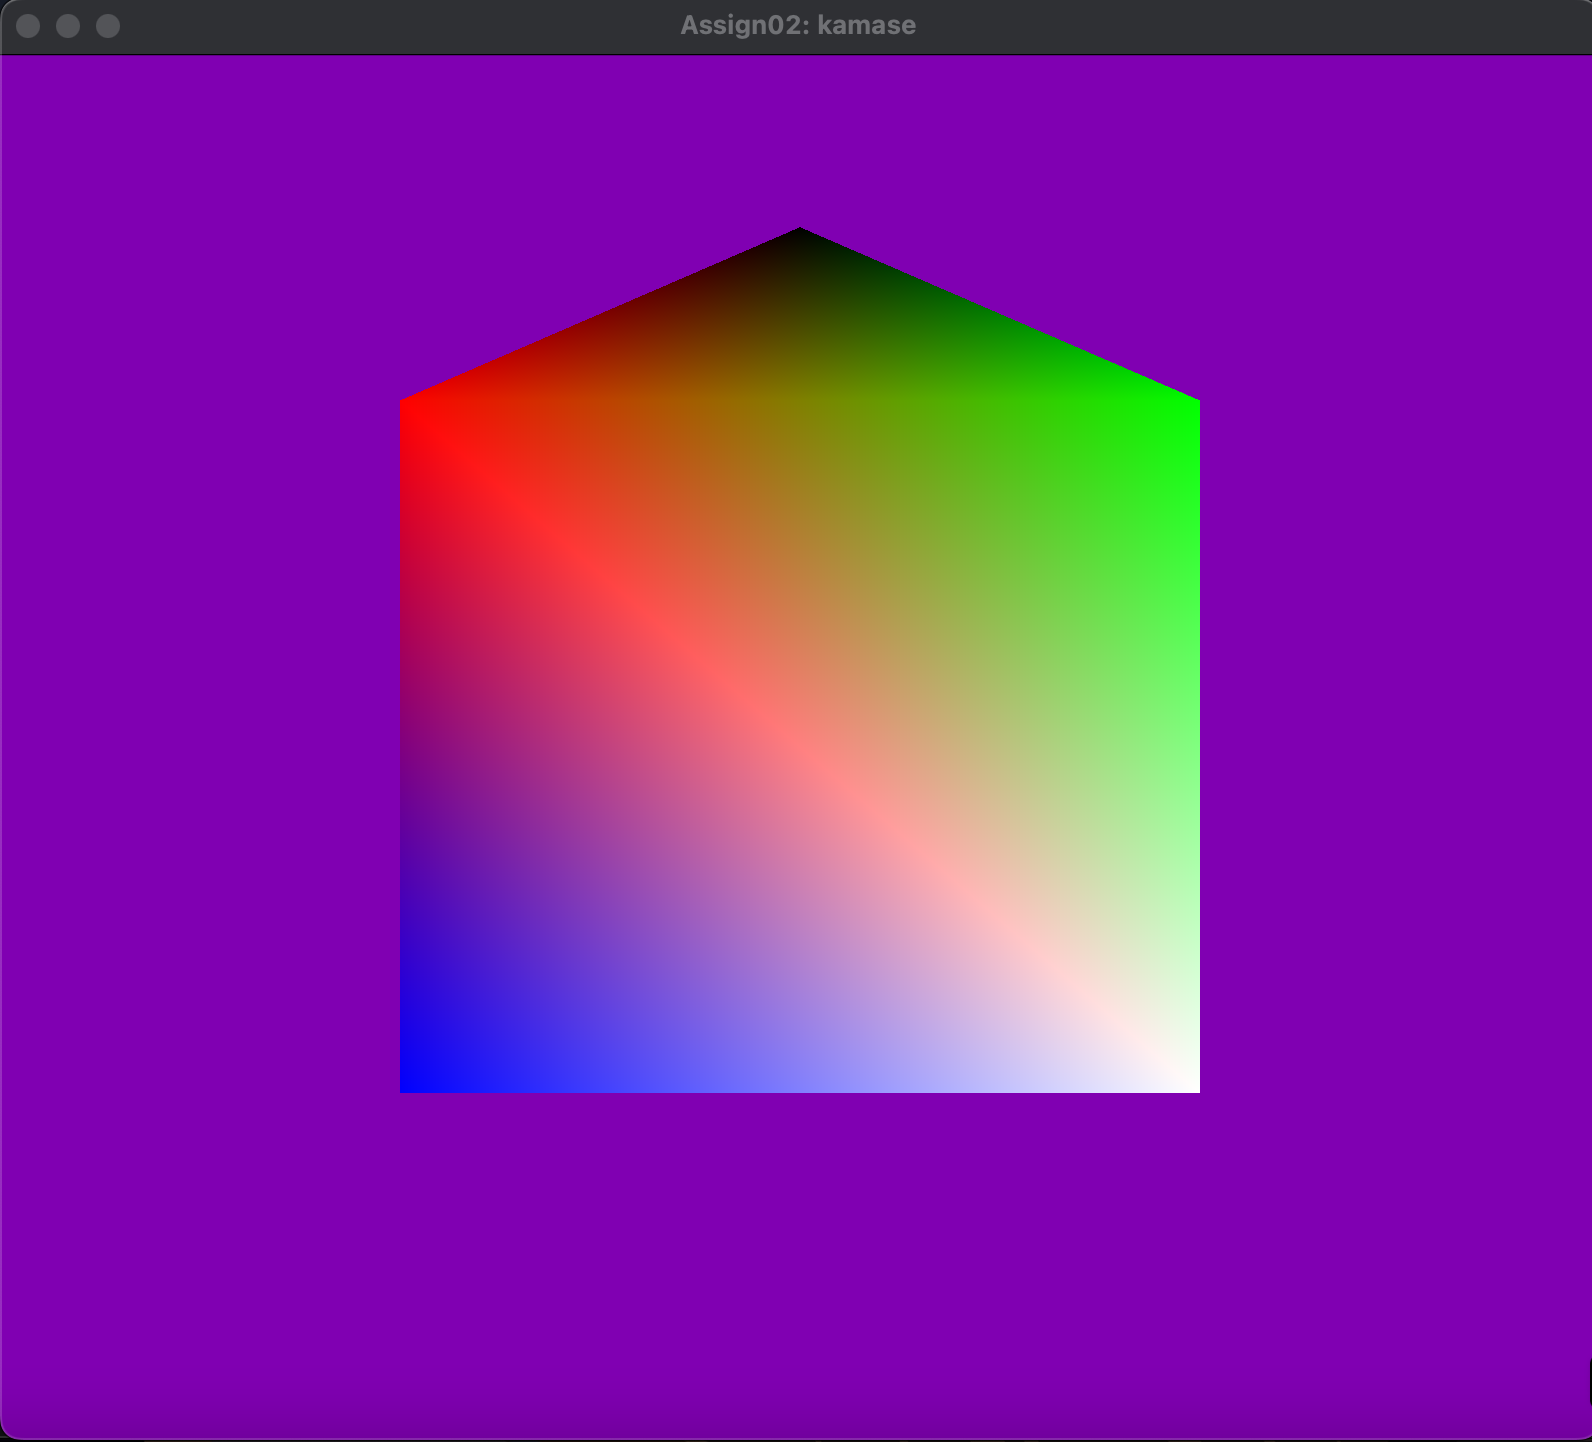
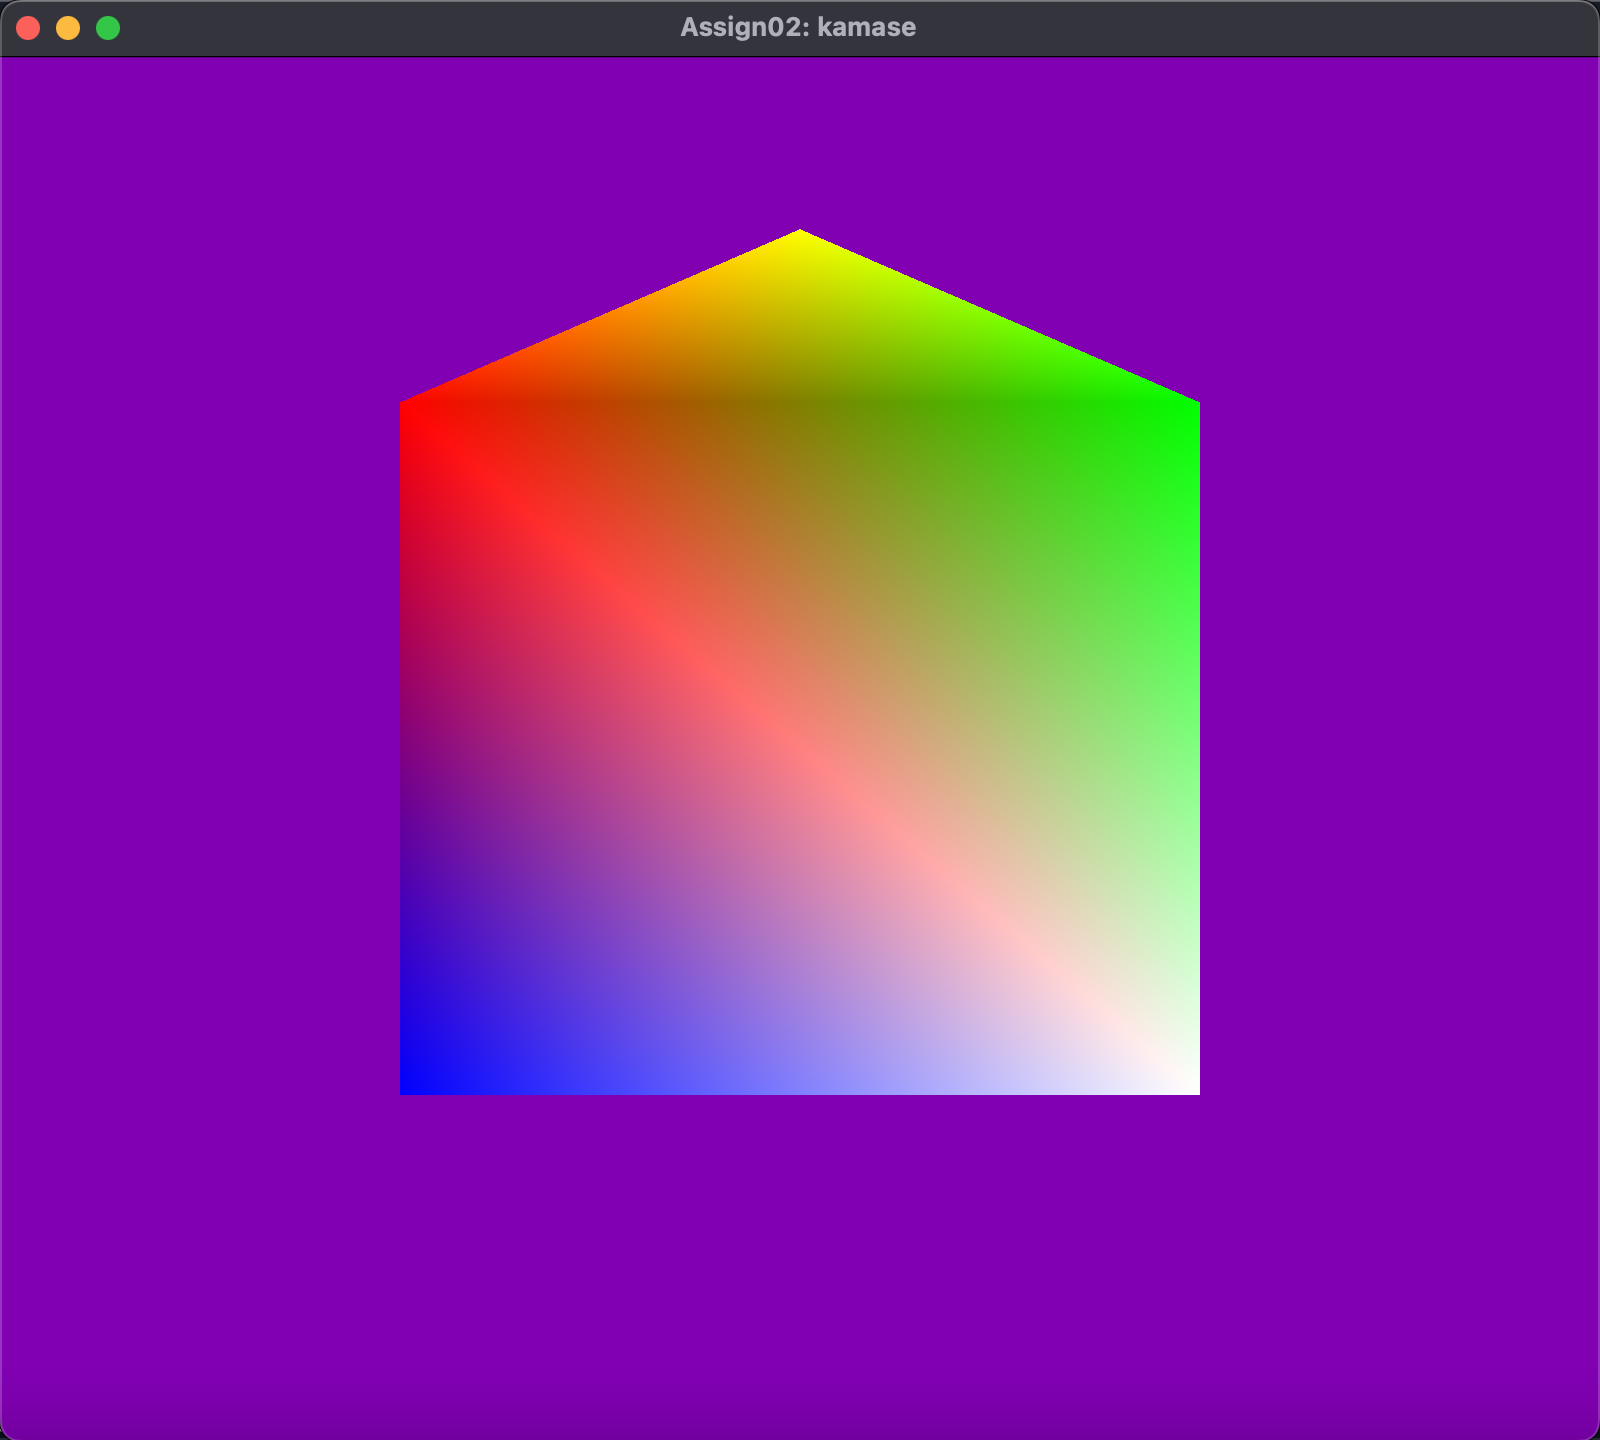
change black point to yellow and update screenshot

diff --git a/src/app/Assign02.cpp b/src/app/Assign02.cpp
@@ -74,10 +74,10 @@ void createSimplePentagon(Mesh &m) {
 	lowerLeft.position = glm::vec3(-0.5, -0.5, 0.0);
 	lowerRight.position = glm::vec3(0.5, -0.5, 0.0);
 
-	// Set vertex colors (red, black, green, blue, white)
+	// Set vertex colors (red, yellow, green, blue, white)
 	// Note: glm::vec4(red, green, blue, alpha)
 	upperLeft.color = glm::vec4(1.0, 0.0, 0.0, 1.0);
-	topMiddle.color = glm::vec4(0.0, 0.0, 0.0 , 1.0);
+	topMiddle.color = glm::vec4(1.0, 1.0, 0.0 , 1.0);
 	upperRight.color = glm::vec4(0.0, 1.0, 0.0, 1.0);
 	lowerLeft.color = glm::vec4(0.0, 0.0, 1.0, 1.0);
 	lowerRight.color = glm::vec4(1.0, 1.0, 1.0, 1.0);
@@ -91,6 +91,10 @@ void createSimplePentagon(Mesh &m) {
 
 	// Add indices for three triangles
 	m.indices.push_back(0);
+	m.indices.push_back(2);
+	m.indices.push_back(1);
+	
+	m.indices.push_back(0);
 	m.indices.push_back(4);
 	m.indices.push_back(2);
 
@@ -98,9 +102,6 @@ void createSimplePentagon(Mesh &m) {
 	m.indices.push_back(3);
 	m.indices.push_back(4);
 
-	m.indices.push_back(0);
-	m.indices.push_back(2);
-	m.indices.push_back(1);
 }
 
 
